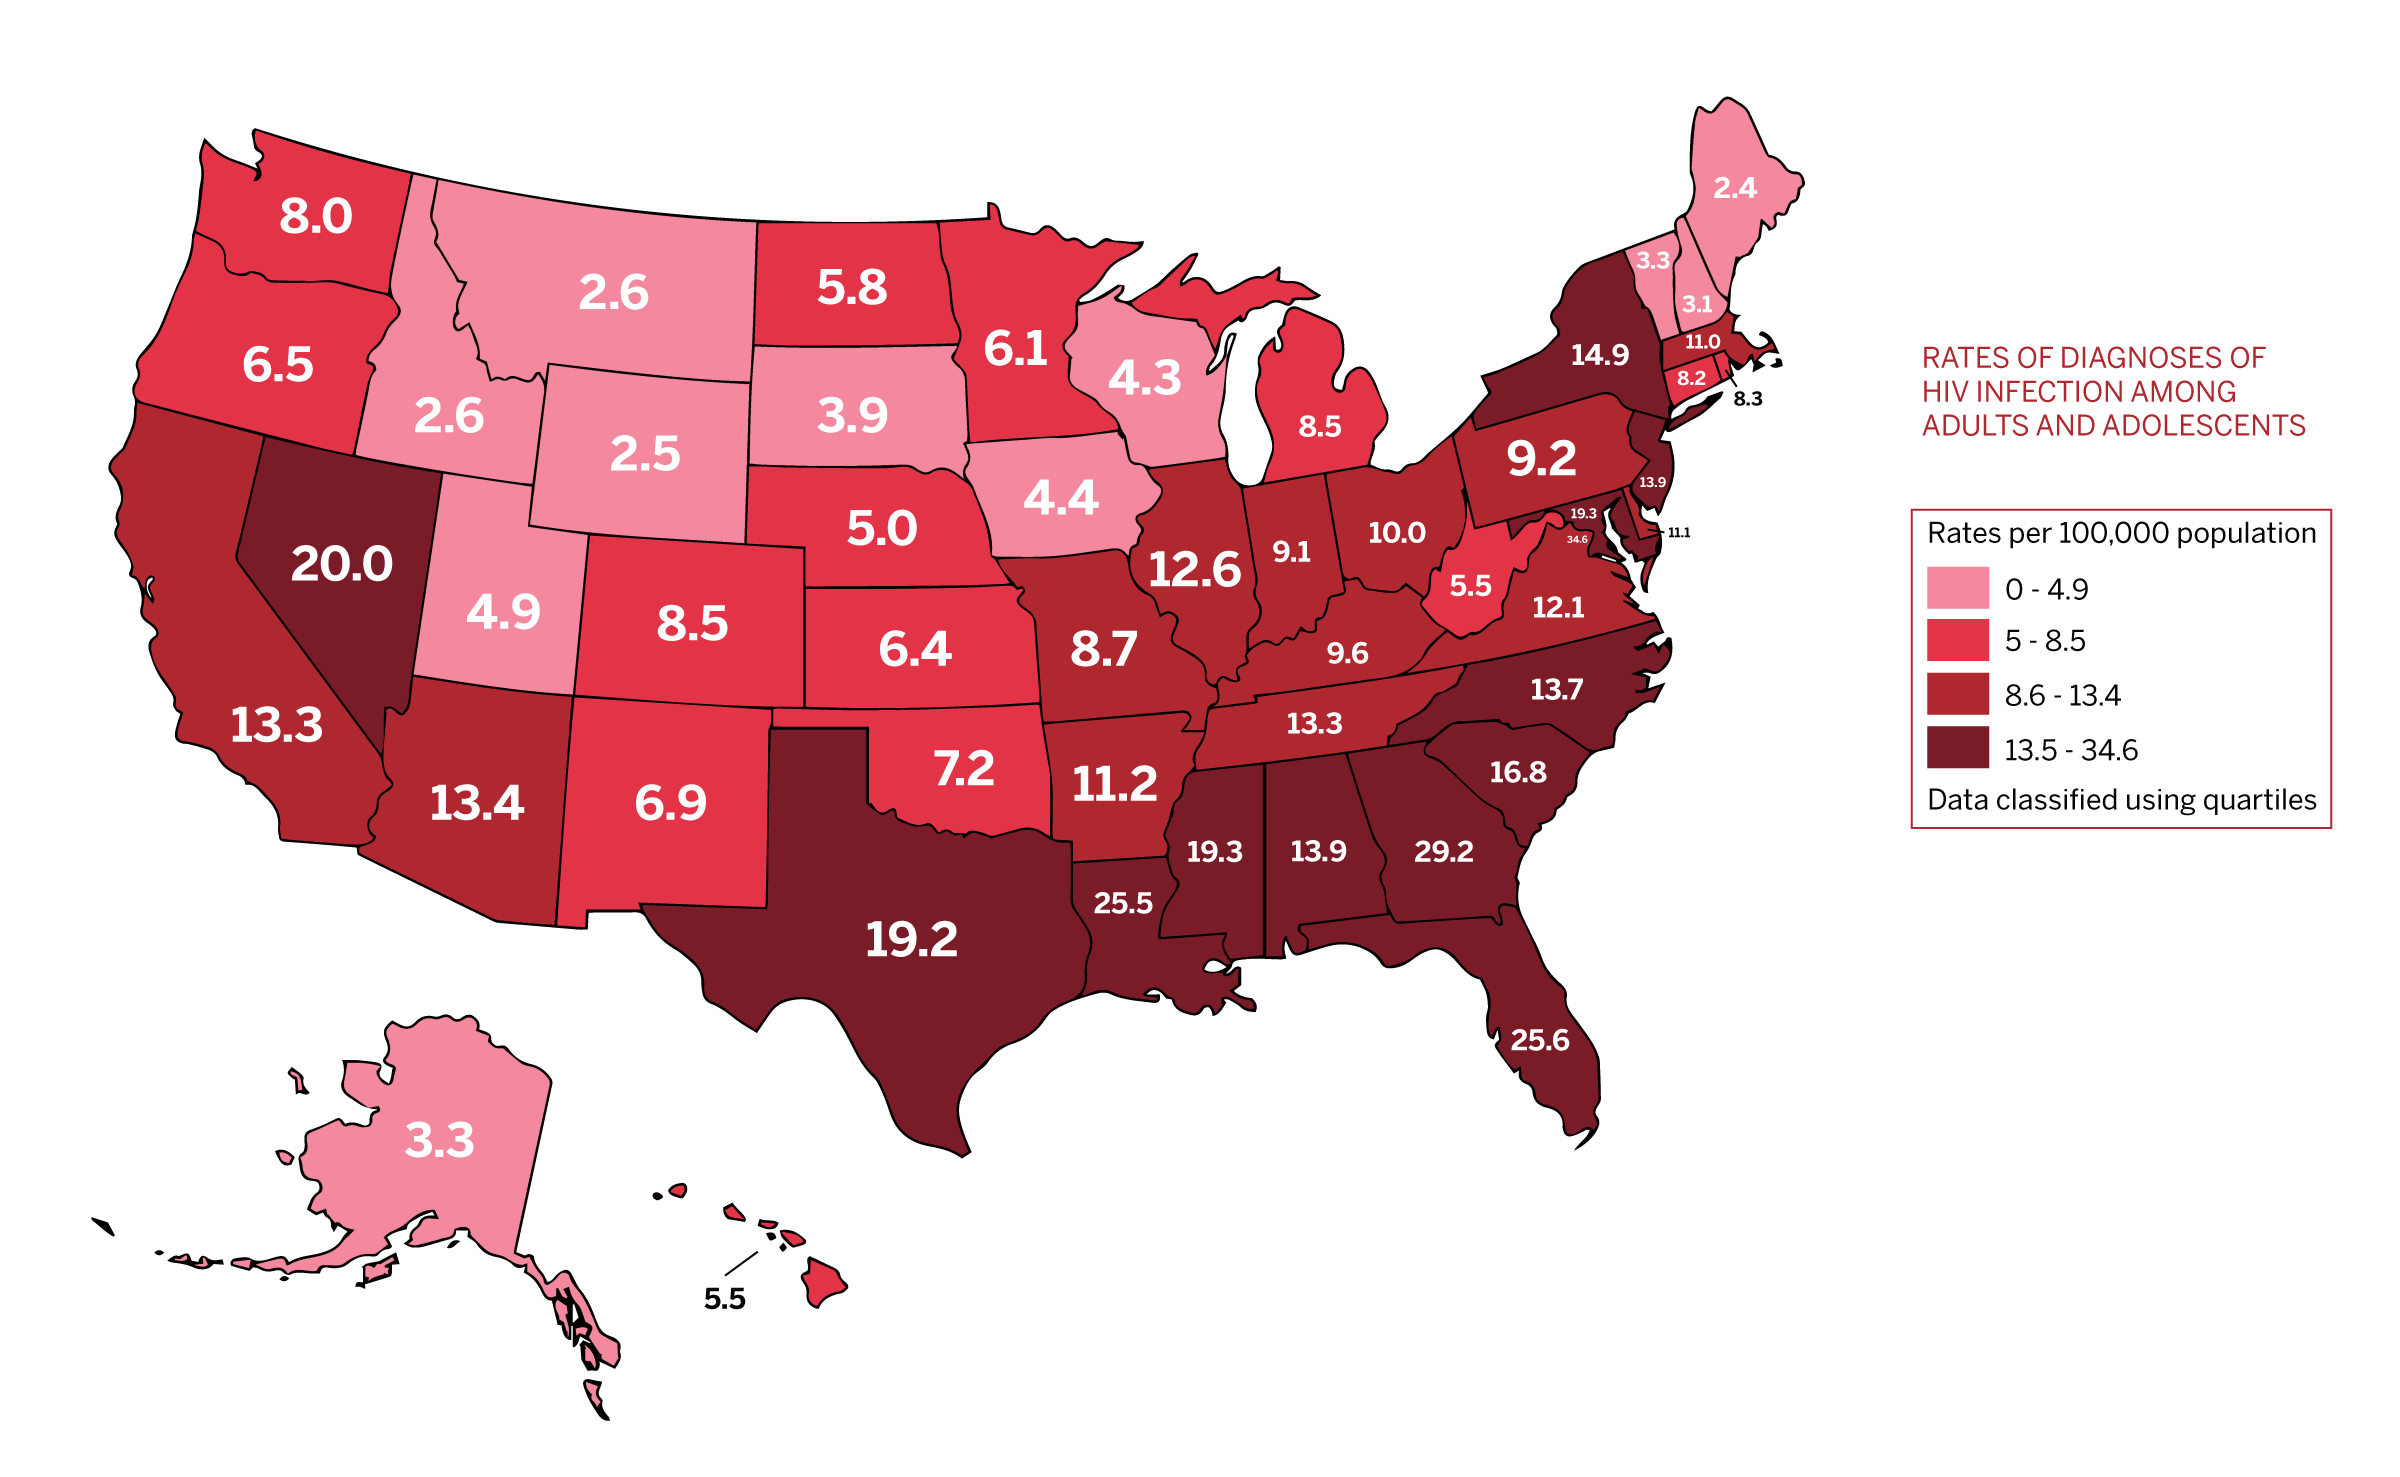
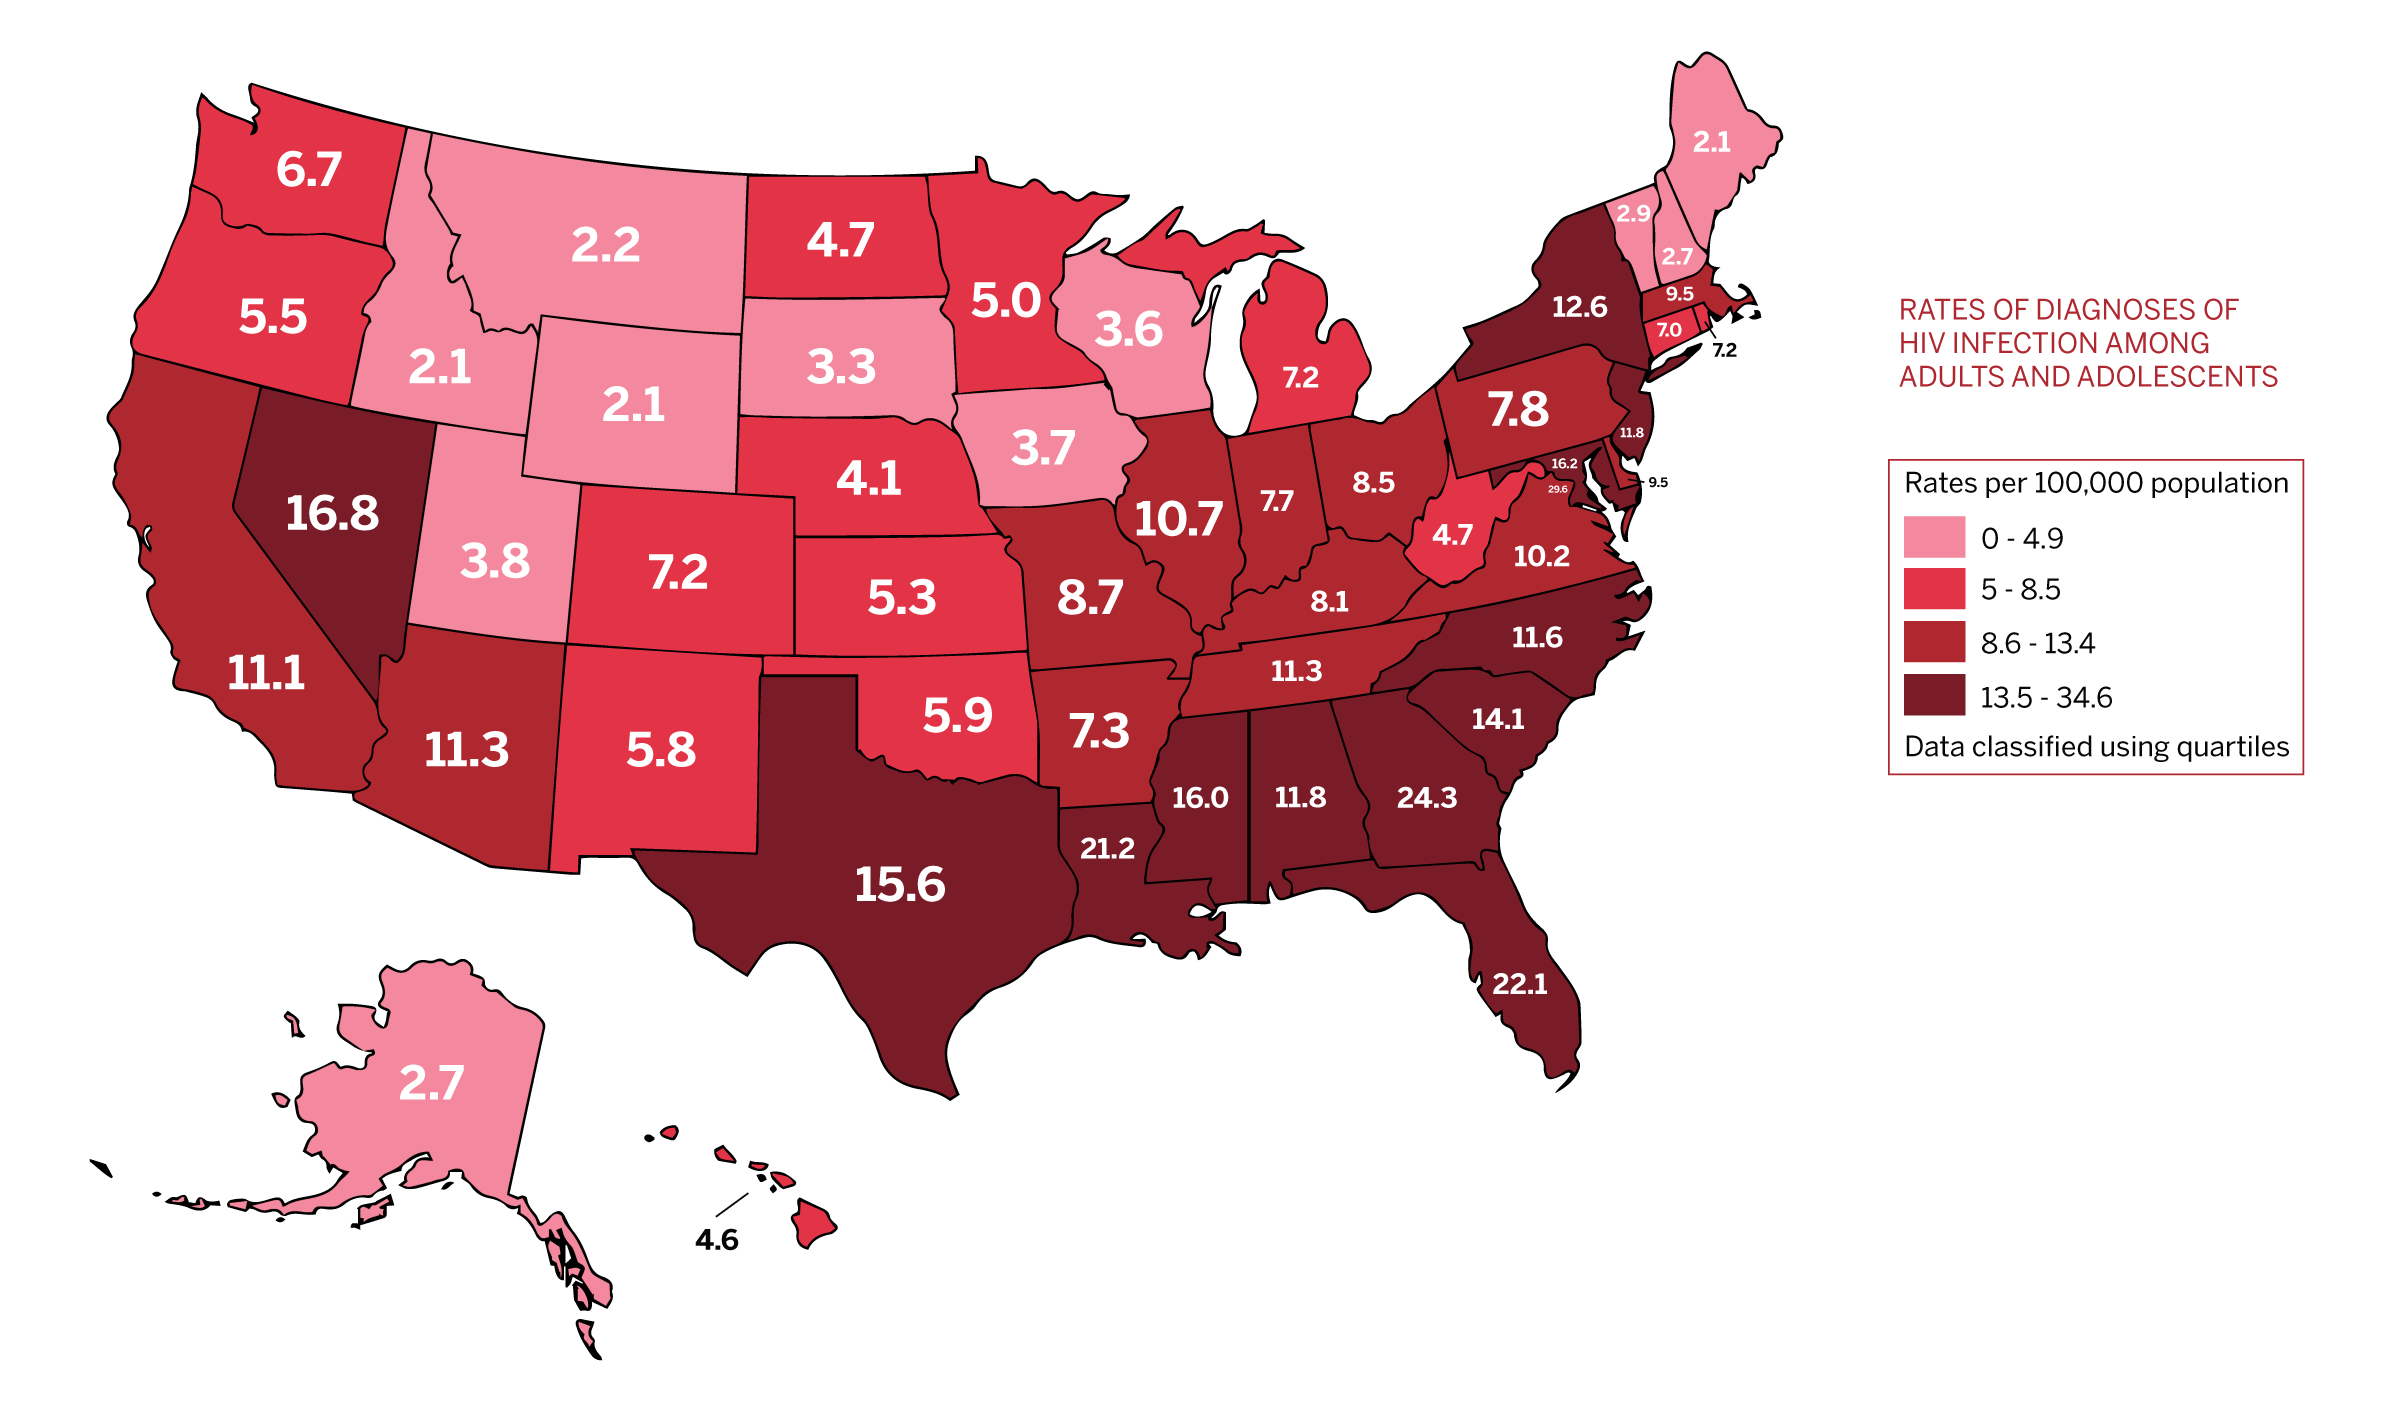
overview styling

diff --git a/overview/index.html b/overview/index.html
@@ -106,74 +106,120 @@
                 <p class="story-intro">
                     The maps and charts below represent a brief overview of these rates, trends, and disparities. 
                 </p>
-                <hr>
-                <div class="story">
+            </div>
+                <!-- <hr> -->
+            <div class="story">
+                <div class="story-sec">
                     <h2>
                         New Diagnoses of HIV Infection in 2018 in the US
                     </h2>
-                    <img src="../assets/img/overview/us-map.png" alt="">
-                    <ul>
-                        <li>
-                            In the United States and 6 dependent areas, the rate of diagnoses of new HIV infection among adults and adolescents was 13.6 per 100,000 population in 2018.
-                        </li> 
-                        <li>
-                            The rate of diagnoses of new HIV infection for adults and adolescents ranged from zero per 100,000 in American Samoa and the Republic of Palau to 34.6 per 100,000 in the District of Columbia.
-                        </li> 
-                        <li>
-                            The District of Columbia (i.e., Washington, DC) is a city; use caution when comparing the HIV diagnosis rate in DC with the rates in the states.
-                        </li> 
-                        <li>
-                            The rate of HIV diagnosis in TX is 19.2 per 100,000 population.  
-                        </li> 
-                    </ul>
-                    
+                    <div class="d-flex justify-content-between">
+                        <ul class="story-h col-md-3">
+                            <li>
+                                In the United States and 6 dependent areas, the rate of diagnoses of new HIV infection among adults and adolescents was 13.6 per 100,000 population in 2018.
+                            </li> 
+                            <li>
+                                The rate of diagnoses of new HIV infection for adults and adolescents ranged from zero per 100,000 in American Samoa and the Republic of Palau to 34.6 per 100,000 in the District of Columbia.
+                            </li> 
+                            <li>
+                                The District of Columbia (i.e., Washington, DC) is a city; use caution when comparing the HIV diagnosis rate in DC with the rates in the states.
+                            </li> 
+                            <li>
+                                The rate of HIV diagnosis in TX is 15.6 per 100,000 population.  
+                            </li> 
+                        </ul>
+                        <div class="story-h col-md-9">
+                            <img  src="../assets/img/overview/us-map.png" alt="">
+                        </div>
+                    </div>
+                </div>
+                
+                
+                <div class="story-sec">
                     <h2>
                         Priority Counties in Texas
                     </h2>
-                    <img src="../assets/img/overview/priority-counties.png" alt="">
-                    <ul>
-                        <li>
-                            Five counties in Texas have been identified as priority counties by the CDC. These are: Bexar County, Dallas County, Harris County, Tarrant County, and Travis County.
-                        </li>
-                    </ul>
-                    
+                    <div class="d-flex justify-content-between">
+                        <ul class="story-h col-md-3">
+                            <li>
+                                Five counties in Texas have been identified as priority counties by the CDC. These are: Bexar County, Dallas County, Harris County, Tarrant County, and Travis County.
+                            </li>
+                        </ul>
+                        <div class="story-h col-md-9">
+                            <img src="../assets/img/overview/priority-counties.png" alt="">
+                        </div>
+                    </div>
+
+                </div>
+                
+
+
+                <div class="story-sec">
                     <h2>
                         Interactive Maps of New Diagnosis & Person Living With HIV Rates in Texas
                     </h2>
                     <div class="d-flex justify-content-between">
-                    
-                        <div class="flourish new-cases">
-                            <h4>New Diagnosis Rates</h4>
-                            <div class="flourish-embed flourish-map" data-src="visualisation/2415205" data-url="https://flo.uri.sh/visualisation/2415205/embed"><script src="https://public.flourish.studio/resources/embed.js"></script></div>
+                        <ul class="story-h col-md-3">
+                            <li>Between 2009 and 2018, the total number of PLWH increased by 46% in Texas.</li>
+                            <li>Over half (61%) of people living with HIV (PLWH) acquired it through male-male sexual contact.</li>
+                            <li>By 2018, over half of PLWH were 45 years of age or older.</li>
+                            <li>A majority of people living with HIV live in urban areas of Texas.  The counties with the largest numbers of PLWH were Harris and Dallas, followed by Bexar, Travis, and Tarrant counties.</li>
+                        </ul>
+                        <div class="story-h col-md-9 d-flex justify-content-between">
+                            <div class="flourish new-cases">
+                                <h4>New Diagnosis Rates</h4>
+                                <div class="flourish-embed flourish-map" data-src="visualisation/2415205" data-url="https://flo.uri.sh/visualisation/2415205/embed"><script src="https://public.flourish.studio/resources/embed.js"></script></div>
+                            </div>
+                            <div class="flourish plwh">
+                                <h4>Persons Living With HIV Rates</h4>
+                                <div class="flourish-embed flourish-map" data-src="visualisation/2593900" data-url="https://flo.uri.sh/visualisation/2593900/embed"><script src="https://public.flourish.studio/resources/embed.js"></script></div>
+                            </div>
                         </div>
-                        <div class="flourish plwh">
-                            <h4>Persons Living With HIV Rates</h4>
-                            <div class="flourish-embed flourish-map" data-src="visualisation/2593900" data-url="https://flo.uri.sh/visualisation/2593900/embed"><script src="https://public.flourish.studio/resources/embed.js"></script></div>
+                        
+                    </div>
+                </div>
+
+                <div class="story-sec">
+                    <h2>
+                        New Diagnoses Rates Trends in Texas
+                    </h2>
+                    <div class="d-flex justify-content-between">
+                        <!-- <ul class="story-h col-md-0">
+                        </ul> -->
+                        <div class="story-h col-md-12 d-flex justify-content-between">
+                            <div class="col-md-6">
+                                <h4>New Diagnoses Rates in Texas 2007 - 2017 (overall)</h4>
+                                <!-- <div class=""> -->
+                                    <img src="../assets/img/overview/new-trend.png" alt="">
+                                <!-- </div> -->
+                            </div>
+                            <div class="col-md-6">
+                                <h4>New HIV Diagnosis Rates by Race/Ethnicity and Year of Diagnosis, 2009-2018</h4>
+                                <img src="../assets/img/overview/v2highfimockups-4.png" alt="">
+                            </div>
+                        </div>
+                        
+                    </div>
+                </div>
+
+                <div class="story-sec">
+                    <h2>
+                        New Diagnoses Rates in Texas by Age & Race, 2018
+                    </h2>
+                    <div class="story-h col-md-12 d-flex justify-content-between">
+                        <div class="col-md-6">
+                            <h4>New HIV Diagnisis Rates by Age at Diagnosis, 2018</h4>
+                            <img src="../assets/img/overview/v2highfimockups-5.png" alt="">
+                        </div>
+                        <div class="col-md-6">
+                            <h4>HIV Prevalence Rate by Race/Ethnicity, 2018</h4>
+                            <img src="../assets/img/overview/v2highfimockups-6.png" alt="">
                         </div>
                     </div>
-                    <ul>
-                        <li>Between 2009 and 2018, the total number of PLWH increased by 46% in Texas.</li>
-                        <li>Over half (61%) of people living with HIV (PLWH) acquired it through male-male sexual contact.</li>
-                        <li>By 2018, over half of PLWH were 45 years of age or older.</li>
-                        <li>A majority of people living with HIV live in urban areas of Texas.  The counties with the largest numbers of PLWH were Harris and Dallas, followed by Bexar, Travis, and Tarrant counties.</li>
-                    </ul>
-
-                    <h2>
-                        New Diagnoses Rates in Texas 2007 - 2017
-                    </h2>
-                    <img src="../assets/img/overview/new-trend.png" alt="">
-                    <hr>
-                    THIS IS DRAFT
-                    <hr>
-                    <img src="../assets/img/overview/v2highfimockups-4.png" alt="">
-                    <img src="../assets/img/overview/v2highfimockups-5.png" alt="">
-                    <img src="../assets/img/overview/v2highfimockups-6.png" alt="">
                 </div>
-               
-                
-                
             </div>
-            
+               
+                            
         </div><!-- .content-->
     </div><!-- #content-->
     <footer >

diff --git a/assets/css/overview/overview.css b/assets/css/overview/overview.css
@@ -1,25 +1,45 @@
 h1.page-title-noBanner{
     margin-bottom: 5%;
+    margin-top:0;
+}
+.page-row{
+    max-width: 100%;
+    width: 100%;
+    background: #264B58;
+    padding: 100px 10%;
 }
 .story{
-    margin:0 50px;
+    margin:0 10%;
+}
+.story-sec{
+    padding: 80px 0;
+    border-bottom: #264B5855 1px solid;
+}
+.story-sec:last-child{
+    border-bottom: none;
+ 
 }
 .story h2{
     max-width: 800px;
-    margin-top: 8%;
+
+    margin-bottom: 20px;
 }
 p.story-intro{
     padding: 0px 20px;
     font-size: 22px;
-    font-weight: 500;
+    font-weight: 300;
     color: #264B58;
+    color: #fff;
+    margin: auto;
     margin-bottom: 1em;
+    max-width: 1200px;
+    
 }
 .story img{
     max-width: 100%;
 }
 .story ul{
-    padding: 20px;
+    padding: 0 20px;
     max-width: 800px;
     font-weight: 500;
 }
@@ -29,9 +49,9 @@ ul li{
 
 .flourish{
     width:45%;
-    margin-top: 50px;
+    /* margin-top: 50px; */
 }
-.flourish h4{
+.story-sec h4{
     color: #60B8B3;
     font-size: 20px;
     margin-bottom: 20px;
@@ -39,4 +59,8 @@ ul li{
 .flourish-credit{
     opacity: 0.4;
     /* color: red; */
+}
+
+.story-h{
+    /* width: 50%; */
 }
